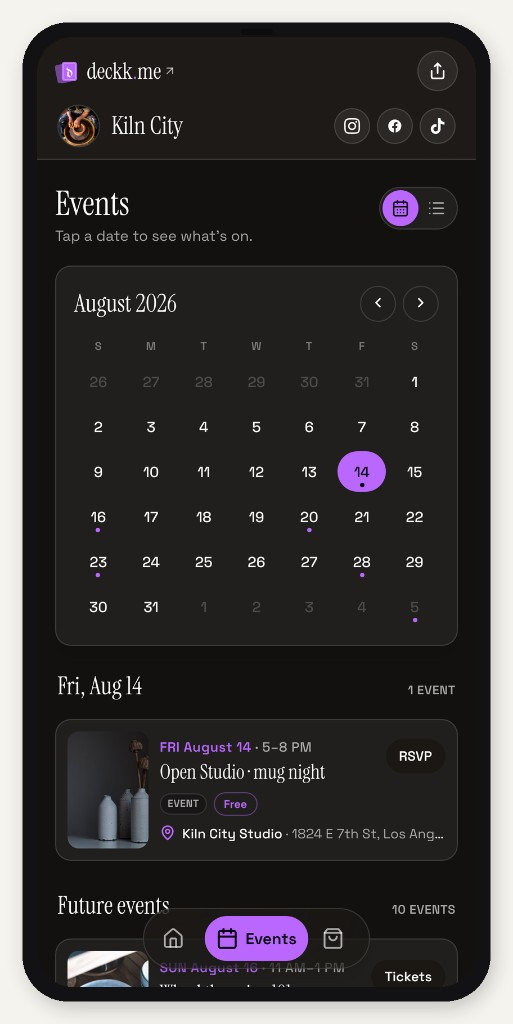
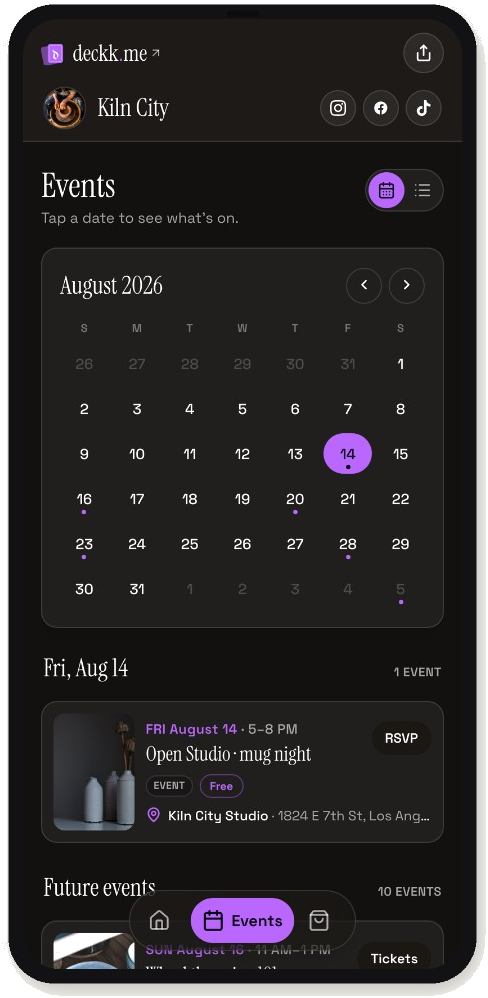
Remove white mats from Deckk device art and lighten hero/thumb stages.
Crop cream export padding, restore transparent phone edges, and use a soft lilac gradient so dark UI reads clearly.

diff --git a/case-study-deckk.html b/case-study-deckk.html
@@ -13,7 +13,7 @@
   <link rel="preconnect" href="https://fonts.gstatic.com" crossorigin>
   <link href="https://fonts.googleapis.com/css2?family=Instrument+Sans:ital,wght@0,400;0,500;0,600;0,700;1,400&family=IBM+Plex+Mono:wght@400;500&display=swap" rel="stylesheet">
   <link rel="stylesheet" href="ui-system.css?v=2">
-  <link rel="stylesheet" href="case-study.css?v=50">
+  <link rel="stylesheet" href="case-study.css?v=51">
 </head>
 <body class="case-study-body" data-cs-open="true">
 
@@ -91,10 +91,10 @@
             <div class="deckk-hero-showcase__glow" aria-hidden="true"></div>
             <div class="deckk-hero-showcase__stage">
               <figure class="deckk-hero-phone deckk-hero-phone--back">
-                <img src="deckk-kilncity-events.png?v=1" alt="Kiln City Events calendar on Deckk — August 2026 with Open Studio selected" width="513" height="1024" decoding="async">
+                <img src="deckk-kilncity-events.png?v=2" alt="Kiln City Events calendar on Deckk — August 2026 with Open Studio selected" width="513" height="1024" decoding="async">
               </figure>
               <figure class="deckk-hero-phone deckk-hero-phone--front">
-                <img src="deckk-kilncity-home.png?v=1" alt="Kiln City Home on Deckk — Next up events and featured shop" width="513" height="1024" decoding="async">
+                <img src="deckk-kilncity-home.png?v=2" alt="Kiln City Home on Deckk — Next up events and featured shop" width="513" height="1024" decoding="async">
               </figure>
             </div>
             <p class="deckk-hero-showcase__caption body-sm">Kiln City · public deck in dark mode — Home and Events</p>
@@ -232,13 +232,13 @@
               <figure class="phone-compare__item">
                 <figcaption class="phone-compare__label body-sm">Home · Next up + shop</figcaption>
                 <div class="deckk-device">
-                  <img src="deckk-kilncity-home.png?v=1" alt="Kiln City Home on Deckk with ranked Next up events and Featured shop" width="513" height="1024" loading="lazy" decoding="async">
+                  <img src="deckk-kilncity-home.png?v=2" alt="Kiln City Home on Deckk with ranked Next up events and Featured shop" width="513" height="1024" loading="lazy" decoding="async">
                 </div>
               </figure>
               <figure class="phone-compare__item">
                 <figcaption class="phone-compare__label body-sm">Events · calendar + day list</figcaption>
                 <div class="deckk-device">
-                  <img src="deckk-kilncity-events.png?v=1" alt="Kiln City Events calendar on Deckk with Open Studio mug night selected" width="513" height="1024" loading="lazy" decoding="async">
+                  <img src="deckk-kilncity-events.png?v=2" alt="Kiln City Events calendar on Deckk with Open Studio mug night selected" width="513" height="1024" loading="lazy" decoding="async">
                 </div>
               </figure>
             </div>

diff --git a/index.html b/index.html
@@ -313,8 +313,8 @@
             </div>
           </div>
           <div class="glass-card project-card" data-case-study="case-study-deckk.html" data-work-categories="ai">
-            <div class="project-media project-media--dark">
-              <img src="deckk-case-thumb.png?v=2" alt="Kiln City Events on Deckk — dark mode public deck">
+            <div class="project-media project-media--deckk">
+              <img src="deckk-case-thumb.png?v=3" alt="Kiln City Events on Deckk — dark mode public deck">
             </div>
             <div class="project-meta">
               <h3 class="project-title">Deckk: Reimagining the Link-in-Bio with AI</h3>

diff --git a/styles.css b/styles.css
@@ -2126,3 +2126,12 @@ nav a.active {
   object-fit: cover;
   object-position: center top;
 }
+
+.project-media--deckk {
+  background: linear-gradient(165deg, #e8e4ef 0%, #d4cfe0 100%);
+}
+
+.project-media--deckk img {
+  object-fit: cover;
+  object-position: center center;
+}
